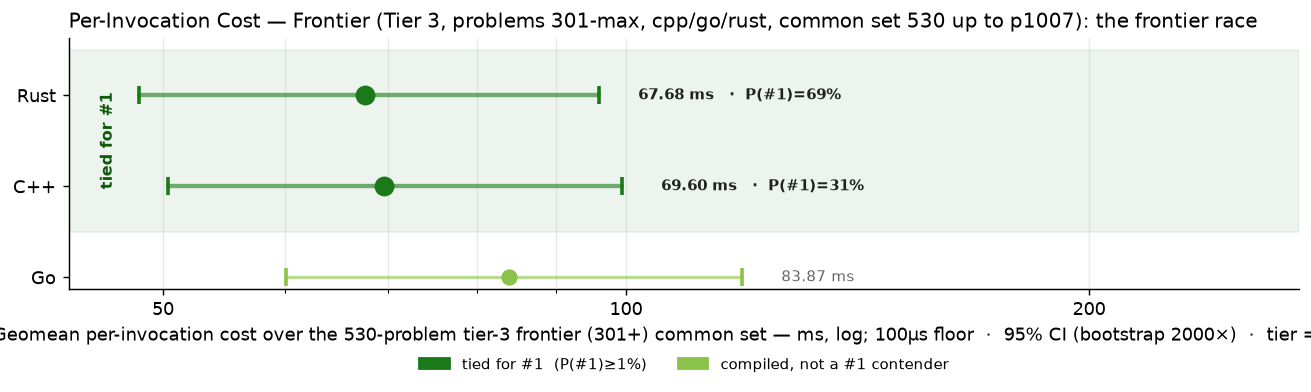
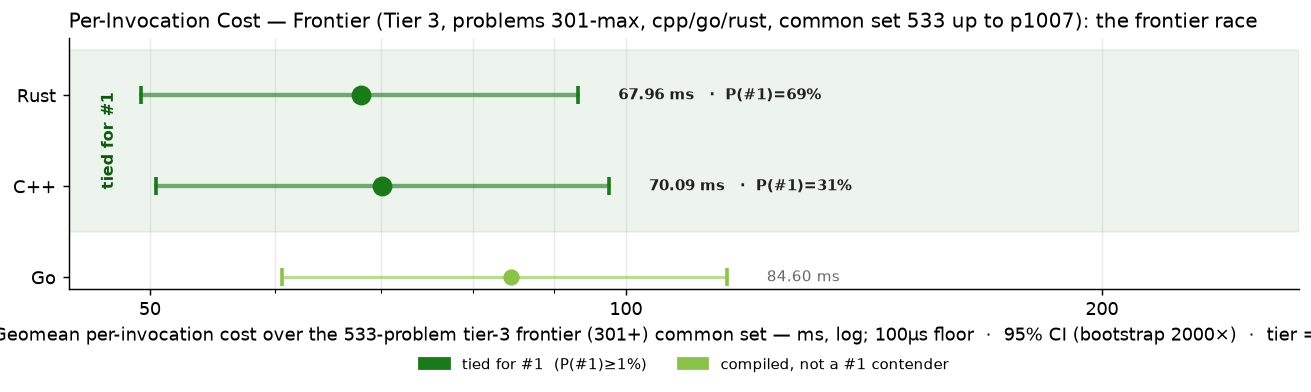
bench p0456,p0611,p0771 (L28 wave 1)

diff --git a/RESULTS.md b/RESULTS.md
@@ -1,6 +1,6 @@
 # Project Euler — Cross-Language Benchmarks
 
-> **Scope: 4521 in-scope cells across 1007 problems × tiered languages — 4003 measured (88.5% coverage).**
+> **Scope: 4521 in-scope cells across 1007 problems × tiered languages — 4011 measured (88.7% coverage).**
 > The cross-language ranking below is computed over the **200-problem common set** (problems in 1-200 where every language has a passing measurement) — the apples-to-apples Foundation comparison surface.  Per-tier rankings and coverage detail appear further below.
 > Growing carefully — each new problem and language is audited for state-leak
 > safety, verified for answer correctness, and added only when it cleanly fits the
@@ -70,15 +70,15 @@ Same scatter as the Foundation chart, restricted to the tier-2 active languages 
 
 The frontier verification trio — C++, Go, Rust — on problems above 300. 3-way cross-language agreement is the verification protocol (strictly stronger than 2-way; see JOURNEY.md "Tier Reframing" episode for the p254 lesson that motivated it). Python and Zig are explicitly out of this tier — python's wall cost makes it impractical at level 5+, and zig's role caps at Tier 2.
 
-### Per-Invocation Cost (Common Set, 530 of ≤707 problems in scope)
+### Per-Invocation Cost (Common Set, 533 of ≤707 problems in scope)
 
 ![Per-Invocation Cost — Tier 3](charts/per_iter_total_tier3.png)
 
-| Rank | Language | Geomean (530-problem common set) | Total (sum) | Lines of code | vs Fastest |
+| Rank | Language | Geomean (533-problem common set) | Total (sum) | Lines of code | vs Fastest |
 |------|----------|--------------------:|------------:|--------------:|-----------:|
-| 1 | **Rust** | 67.68 ms | 1550.56 s | 89,505 | 1.00× |
-| 2 | **C++** | 69.60 ms | 1658.35 s | 69,904 | 1.03× |
-| 3 | **Go** | 83.87 ms | 1915.12 s | 87,076 | 1.24× |
+| 1 | **Rust** | 67.96 ms | 1551.48 s | 90,559 | 1.00× |
+| 2 | **C++** | 70.09 ms | 1659.28 s | 70,528 | 1.03× |
+| 3 | **Go** | 84.60 ms | 1916.32 s | 87,975 | 1.24× |
 
 ### Speed vs Code Size
 

diff --git a/per_problem/per_problem_0401-0500.md b/per_problem/per_problem_0401-0500.md
@@ -63,7 +63,7 @@ in tier-1 display order (native → managed → interpreted).
 | **p0453** | — | — | — |
 | **p0454** | 91.58 s | 1.47 s | 1.49 s |
 | **p0455** | 2.55 s | 1.42 s | 711.39 ms |
-| **p0456** | — | — | 1.1 µs~ |
+| **p0456** | 310.66 ms | 111.05 ms | 281.59 ms |
 | **p0457** | 586.20 ms | 369.93 ms | 318.70 ms |
 | **p0458** | 1.61 ms | 1.65 ms | 2.48 ms |
 | **p0459** | 2.16 s | 2.40 s | 3.47 s |

diff --git a/per_problem/per_problem_0601-0700.md b/per_problem/per_problem_0601-0700.md
@@ -18,7 +18,7 @@ in tier-1 display order (native → managed → interpreted).
 | **p0608** | — | — | — |
 | **p0609** | 1.56 s | 1.62 s | 1.61 s |
 | **p0610** | 857.8 µs | 1.10 ms | 1.61 ms |
-| **p0611** | — | — | — |
+| **p0611** | 537.27 ms | 775.36 ms | 438.35 ms |
 | **p0612** | 705.2 µs | 650.2 µs | 830.5 µs |
 | **p0613** | 5.39 ms | 1.25 ms | 69.3 µs |
 | **p0614** | — | — | — |

diff --git a/per_problem/per_problem_0701-0800.md b/per_problem/per_problem_0701-0800.md
@@ -78,7 +78,7 @@ in tier-1 display order (native → managed → interpreted).
 | **p0768** | — | — | — |
 | **p0769** | — | — | — |
 | **p0770** | 158.21 ms | 158.17 ms | 158.29 ms |
-| **p0771** | — | — | — |
+| **p0771** | 87.90 ms | 33.20 ms | 479.86 ms |
 | **p0772** | 482.43 ms | 483.46 ms | 484.02 ms |
 | **p0773** | 40.3 µs | 27.2 µs | 45.7 µs |
 | **p0774** | — | — | — |
